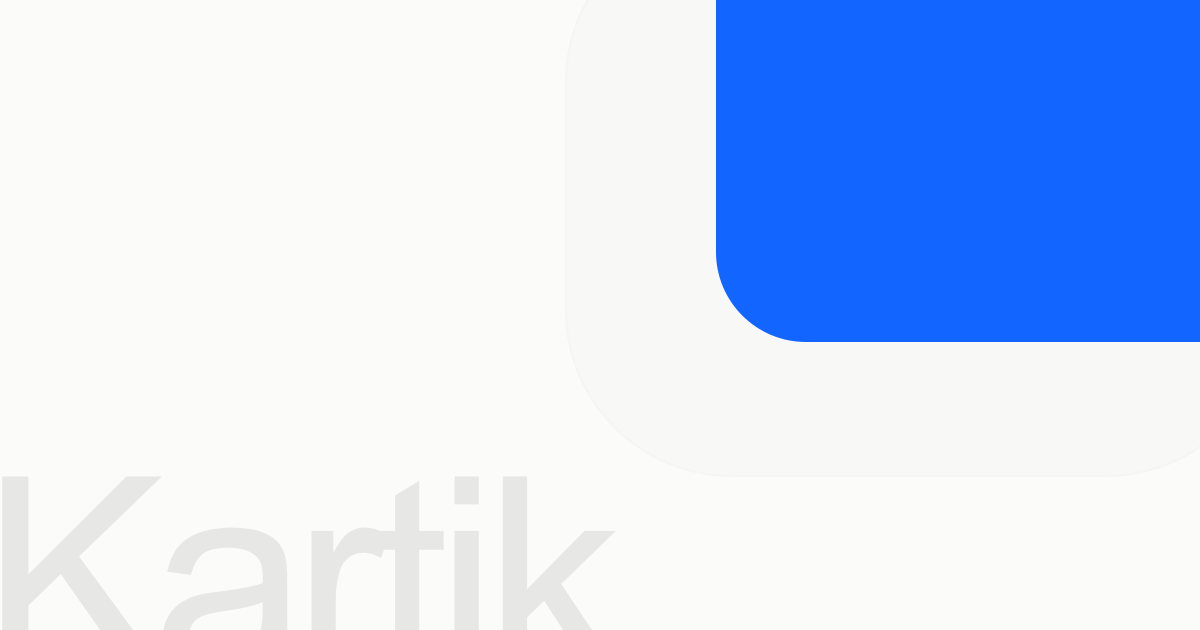
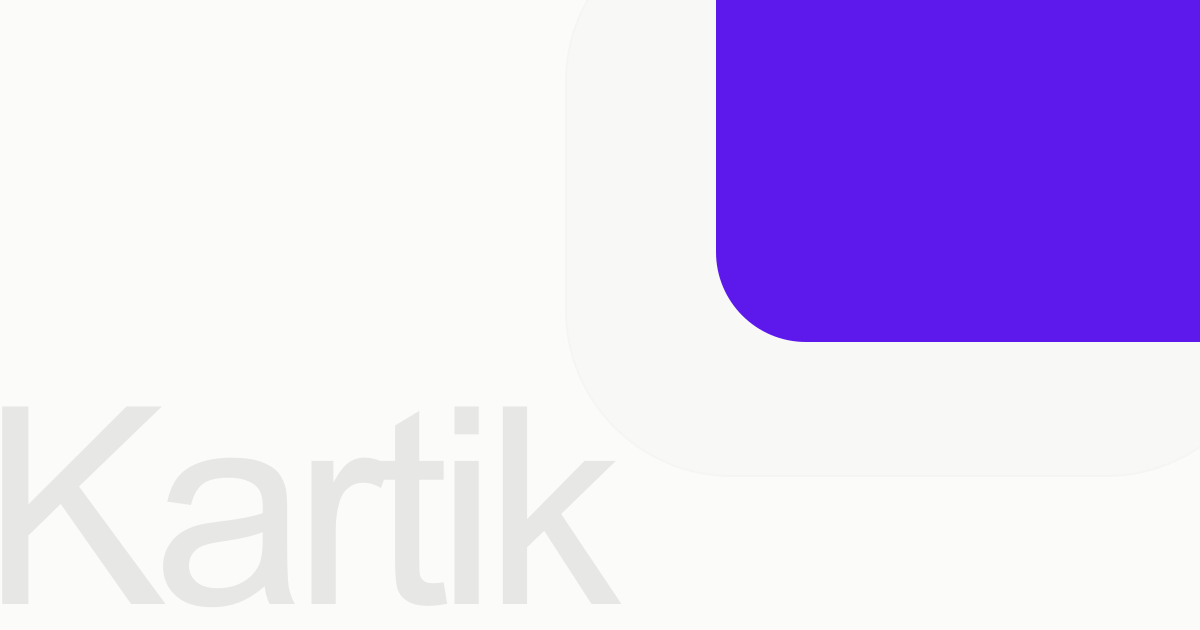
refactor: adjust OG card color and text position in generate-og script

Changed region(s): [[0.5858, 0.0, 1.0, 0.5429]]

diff --git a/scripts/generate-og.ts b/scripts/generate-og.ts
@@ -10,8 +10,8 @@ const svg = `
     </defs>
     <rect width="1200" height="630" fill="#FBFBFA"/>
     <rect x="566" y="-84" width="706" height="560" rx="166" fill="#F8F8F7" stroke="#F5F5F3" stroke-width="2"/>
-    <path d="M716 -84H1272V342H806C756.294 342 716 301.706 716 252V-84Z" fill="#1265FF"/>
-    <text x="-18" y="674" fill="#E7E7E5" font-family="Geist, Arial, sans-serif" font-size="276" font-weight="430" letter-spacing="-13">${profile.name.split(' ')[0]}</text>
+    <path d="M716 -84H1272V342H806C756.294 342 716 301.706 716 252V-84Z" fill="#5D18EB"/>
+    <text x="-18" y="604" fill="#E7E7E5" font-family="Geist, Arial, sans-serif" font-size="276" font-weight="430" letter-spacing="-13">${profile.name.split(' ')[0]}</text>
   </svg>`;
 
 await writeFile(new URL('../public/og-card.png', import.meta.url), await sharp(Buffer.from(svg)).png().toBuffer());
